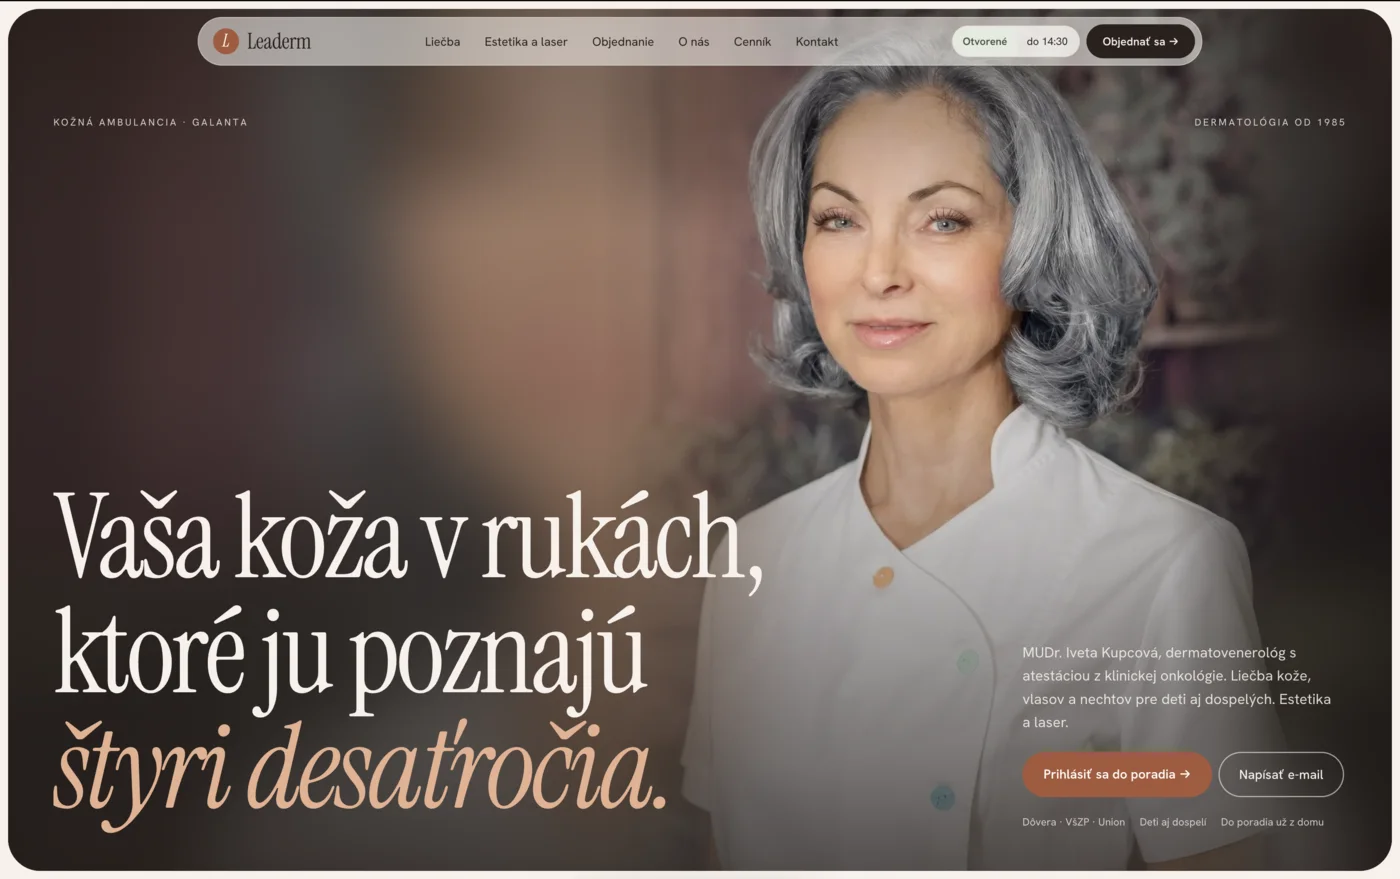
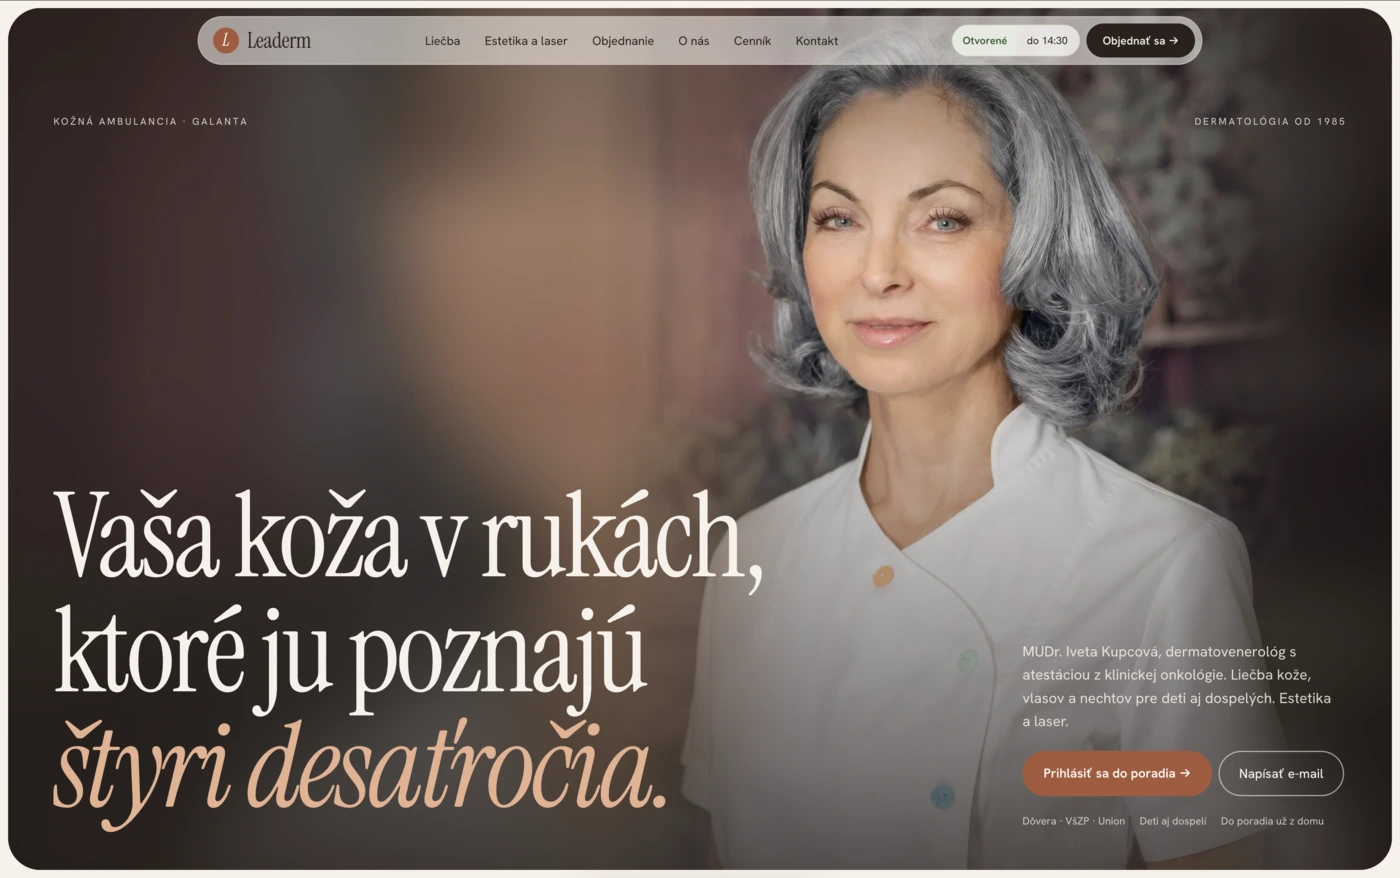
Show full portfolio screenshots and fix Leaderm image artifacts
- Give each portfolio image its own aspect ratio so Eyes Open shows its
  full hero heading; recapture Leone at the same 1200x880 ratio
- Use the new Leaderm screenshot uncropped in the hero and portfolio,
  exported at higher quality so the blurred background stays smooth
  instead of banding or flood-filled patches

Changed region(s): [[0.0, 0.0, 1.0, 0.0923], [0.1843, 0.5843, 0.215, 0.615]]

diff --git a/src/components/BeforeAfter/index.tsx b/src/components/BeforeAfter/index.tsx
@@ -79,7 +79,7 @@ export const BeforeAfter = memo(() => {
             src={leadermAfter}
             alt="Nový web kožnej ambulancie Leaderm: veľký portrét lekárky, elegantný nadpis a tlačidlo na objednanie"
             width={1400}
-            height={879}
+            height={878}
             fetchPriority="high"
             decoding="async"
             className={styles.compare__image}
@@ -88,7 +88,7 @@ export const BeforeAfter = memo(() => {
             src={leadermBefore}
             alt="Pôvodný web Leaderm: slider so stockovou fotkou modelky a vodou, menu s farebnými tlačidlami"
             width={1400}
-            height={879}
+            height={878}
             decoding="async"
             className={[styles.compare__image, styles['compare__image--before']].join(' ')}
           />

diff --git a/src/data/content.ts b/src/data/content.ts
@@ -76,7 +76,7 @@ export const work: WorkItem[] = [
     category: 'Kožná ambulancia',
     alt: 'Úvodná stránka webu kožnej ambulancie Leaderm v Galante',
     width: 1200,
-    height: 748,
+    height: 753,
   },
   {
     image: workMnam,
@@ -92,7 +92,7 @@ export const work: WorkItem[] = [
     category: 'Reštaurácia',
     alt: 'Úvodná stránka webu reštaurácie Leone Pub & Restaurant v Harichovciach',
     width: 1200,
-    height: 753,
+    height: 880,
   },
   {
     image: workEyesOpen,

diff --git a/src/components/Work/Work.module.less b/src/components/Work/Work.module.less
@@ -45,7 +45,7 @@
         .project__image {
           position: absolute;
           inset: 0;
-          aspect-ratio: auto;
+          aspect-ratio: auto !important;
         }
       }
     }
@@ -84,7 +84,6 @@
   &__image {
     width: 100%;
     height: 100%;
-    aspect-ratio: 16 / 10;
     object-fit: cover;
     object-position: top;
     transition: transform 800ms @ease-out;

diff --git a/src/components/Work/index.tsx b/src/components/Work/index.tsx
@@ -25,6 +25,7 @@ export const Work = memo(() => (
                   height={item.height}
                   loading="lazy"
                   decoding="async"
+                  style={{ aspectRatio: `${item.width} / ${item.height}` }}
                   className={styles.project__image}
                 />
               </div>

diff --git a/src/components/BeforeAfter/BeforeAfter.module.less b/src/components/BeforeAfter/BeforeAfter.module.less
@@ -58,7 +58,7 @@
 
 .compare {
   position: relative;
-  aspect-ratio: 1400 / 879;
+  aspect-ratio: 1400 / 878;
   overflow: hidden;
   user-select: none;
 
